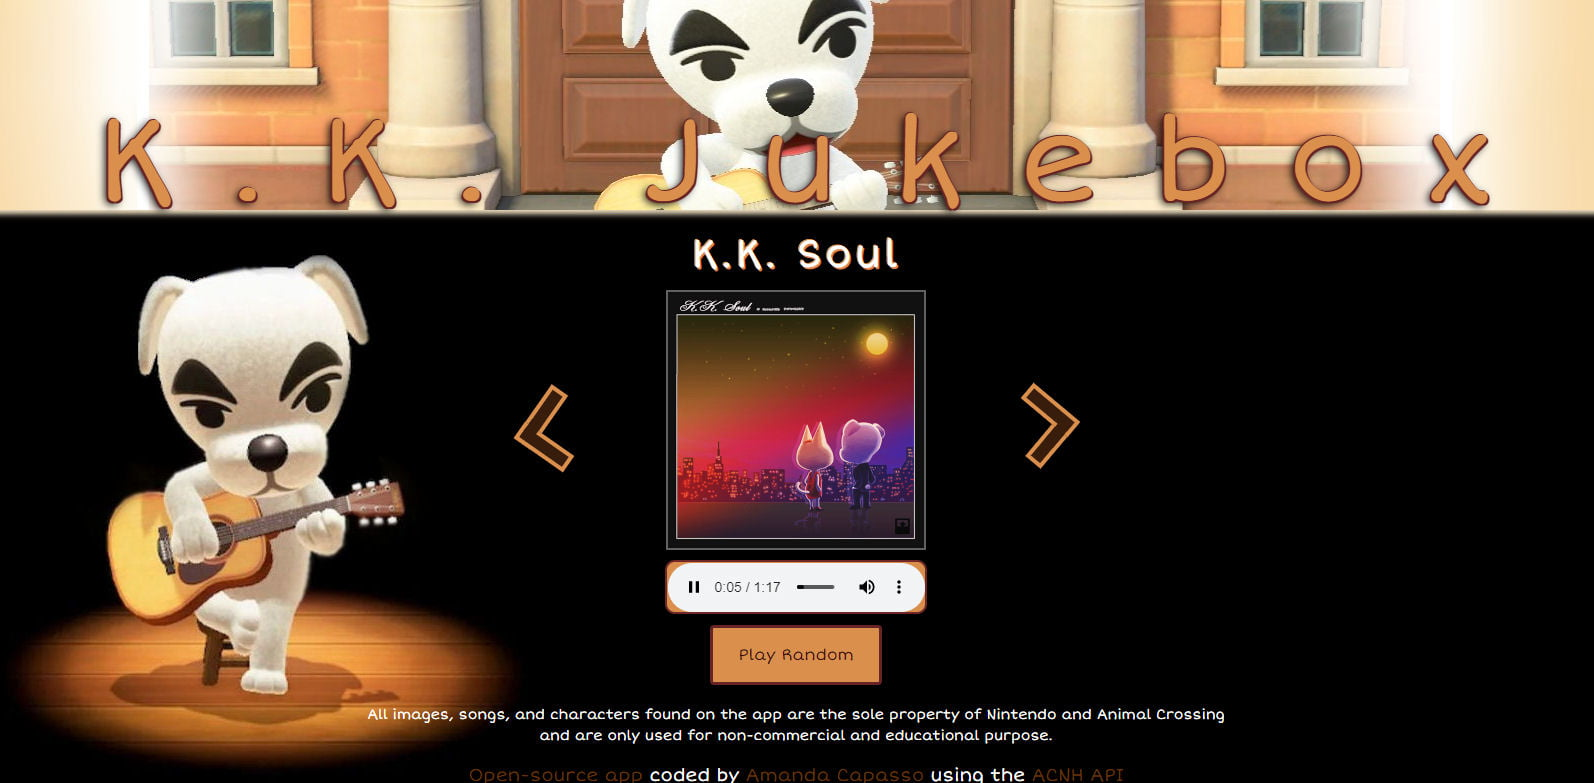
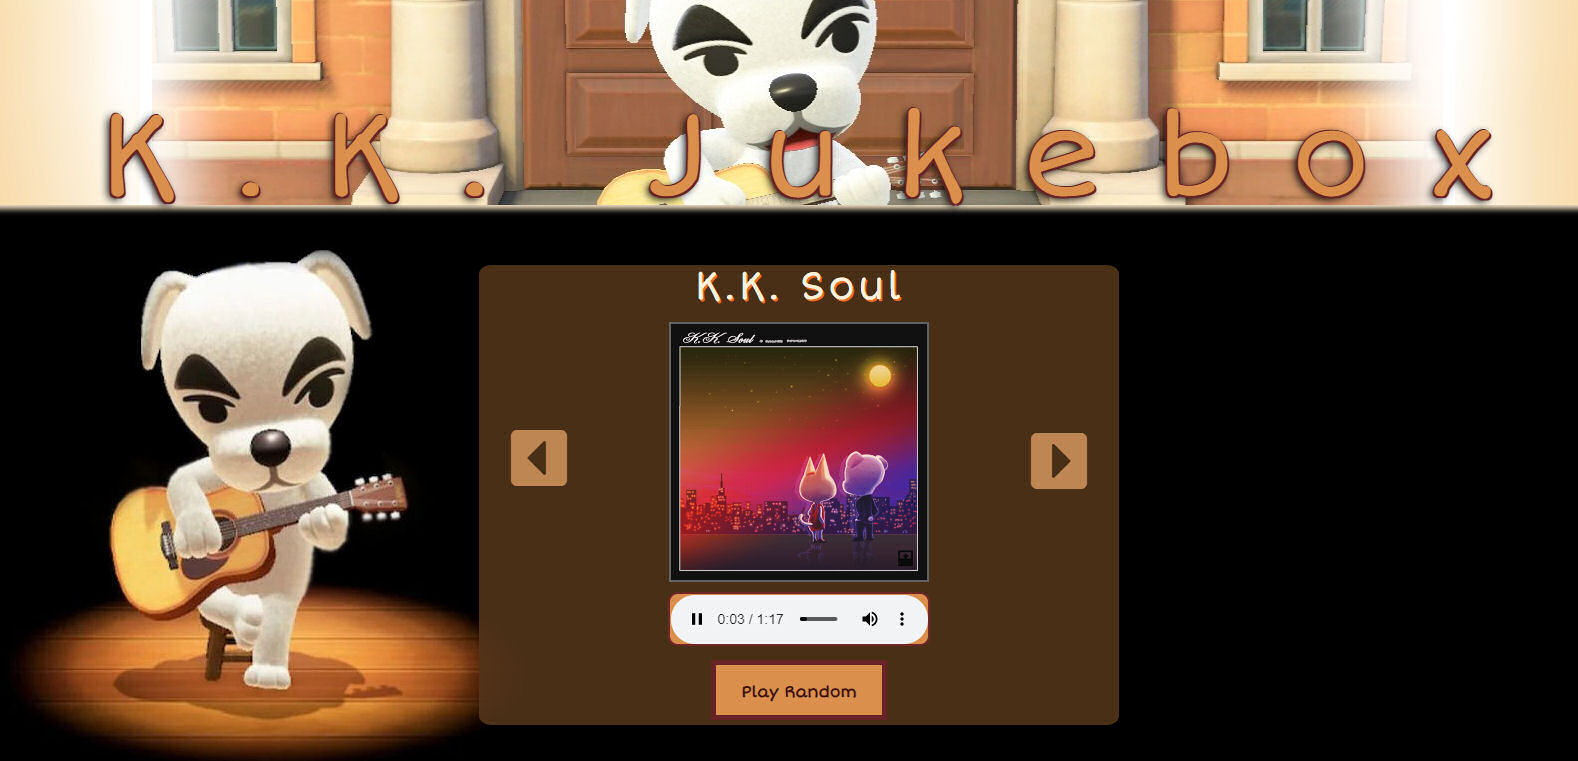
Began implementing pop-up with more info on carousel items starting with newhorizons
Began implementing pop-up with more info on carousel items starting with newhorizons. Added event listeners to buttons to open and close the pop-up with classlist changes. Added 3 preview images into pop-up and list with buttons to app link and github repository.

diff --git a/home.html b/home.html
@@ -53,6 +53,7 @@
             </div>
       </div>
     </div>
+  <div class="blackout"></div>
     <div class="header">
       <header>
       </header>
@@ -106,6 +107,25 @@
           <h1 class="headers" id="portfolioHeader">Portfolio</h1>
         <div class="projects">
 
+          <div class="hiddenInfo">
+            <ul>
+              <li><a href="https://kind-hoover-e218cf.netlify.app/" target="_blank"><button> View App </button></a>  </li>
+              <li><a href="https://github.com/acapasso90/newhorizonscritterpedia" target="_blank"> <button> GitHub <i class="fab fa-github-square"></i> </button></a></li>
+              <li class="builtWith"> Built with: </li>
+              <li> React <i class="fab fa-react" id="icon2" style="color: #3d90f0"></i> </li>
+            </ul>
+            <div class="column">
+              <button class="closeButton">Back</button>
+            <p>Animal Crossing New Horizon's Critterpedia built using React and the <a href="http://acnhapi.com/" target="_blank"> ACNH API</a>. By default it displays fish that are currently available in the Northern Hemisphere during the user's current month and hour.
+              Dropdowns are available to change the time and month and there are buttons for each hemisphere. Bugs and Deep Sea creatures can be accessed by clicking the respective icons 
+              on the top-left of the header, matching the game's UI. Each bug/fish/deep sea creature can be clicked to learn more information such as sell price, time frame and months available, and rarity. 
+            </p>
+            <div class="column">
+              <img src="media/newhorizons/tinypreview.jpg" class="previewPic" alt="animalcrossingPreview">  <img src="media/newhorizons/tinypreview2.jpg" id="previewPic2" class="previewPic" alt="animalcrossingPreview">  <img src="media/newhorizons/tinypreview3.jpg" id="previewPic3"  class="previewPic" alt="animalcrossingPreview">
+            </div>
+        </div>
+      </div>
+
           <div id="mycarousel" loading="lazy" class="carousel slide carousel-fade" data-ride="carousel" data-interval="3000">
             <ol class="carousel-indicators">
               <li data-target="#mycarousel" data-slide-to="0" class="active"></li>
@@ -120,7 +140,7 @@
                 <img src="media/newHorizons-min.jpg"  class="card-img-top" alt="newHorizonsApp">
                 <div class="carousel-caption d-md-block">
                   <div class="backdrop">
-                <a href="https://kind-hoover-e218cf.netlify.app/" 
+           <a href="https://kind-hoover-e218cf.netlify.app/" 
                 target="_blank" > <h3>New Horizon's Critterpedia</h3></a>
                 <h4>React
                 <a href="https://github.com/acapasso90/newhorizonscritterpedia" target="_blank" class="iconLink">

diff --git a/src/styles.css b/src/styles.css
@@ -64,6 +64,8 @@ label { font-size: 17pt!important;
     white-space: nowrap;
 user-select: none;}
 
+ul {list-style: none;}
+
     ::selection{background-color:#555D70;
         color: #ffff;}
 
@@ -148,6 +150,19 @@ animation: fadeIn 3s normal;
 animation-fill-mode: forwards;
 animation-delay: 2.7s;}
 
+.blackout {
+    display: none;
+}
+
+.blackoutShown {height: 507.4vh;
+    position: absolute;
+min-width: 100%;
+background-color: #eee;
+opacity: 50%;
+z-index: 0;}
+
+.builtWith {font-weight: bold;
+font-size: 15pt!important;}
 .headerShown {animation: appear 3s normal;
     animation-fill-mode: forwards;}
 
@@ -189,6 +204,9 @@ width: 60px;}
 .carousel-indicators {position: absolute;
 bottom: -12%;}
 
+
+.closeButton {position: absolute;
+right: 2%;}
 .container {min-width: 100%!important;
     max-width: 100%;
 padding: 0px!important;
@@ -399,6 +417,12 @@ margin-right: 5px;}
     margin-bottom: 80px;
 padding-right: 30px;}
 
+.shown p {position: relative;
+top: 10%;}
+
+.shown ul {margin-top: 2%;}
+.shown li, .shown p {font-size: 14pt;}
+
 #aboutHeader {margin-left: 75%;}
 
 #utilizingHeader {margin-left: 46%;}
@@ -484,6 +508,15 @@ text-decoration: none;
     max-width: 100%;
 bottom: 100px;}
 
+.previewPic {width: 31%;
+position: absolute;
+left: 10px;
+bottom: 10px;}
+
+#previewPic2 {left: 34.5%;}
+
+#previewPic3 {left: 68%}
+
 .projects {display: flex;
     max-width: 100%;
 justify-content: center;}
@@ -491,6 +524,17 @@ justify-content: center;}
 .row {display: flex;
     max-width: 100%;
 flex-direction: row;}
+
+.shown {display: inherit;
+position: absolute;
+width: 97%;
+height: 630px;
+background-color: #b87187;
+color: #161616;
+z-index: 9;
+top: 20%;}
+
+.hiddenInfo {display: none;}
 
 
 @media only screen and (max-width: 500px) {

diff --git a/src/app.js b/src/app.js
@@ -52,7 +52,7 @@ visual.addEventListener("mouseleave", e => {
 //Sets intervel for carousel to change slides
     var myCarousel = document.querySelector('#myCarousel')
     var carousel = new bootstrap.Carousel(myCarousel, {
-      interval: 6000,
+      interval: 500000000000000000000000,
       wrap: false
     })
 
@@ -89,3 +89,34 @@ observer = new IntersectionObserver(entries => {
   });
 //Observes all the headers
     headers.forEach(h1 => { observer.observe(h1)});
+
+
+// Adds display:none from hiddenInfo and removes shown class
+function closePopup(){
+    const hidden = document.querySelector('.shown');
+    const blackout = document.querySelector('.blackout');
+    hidden.classList.remove('shown');
+    hidden.classList.add('hiddenInfo');
+    blackout.classList.add('blackout');
+blackout.classList.remove('blackoutShown');
+    }
+
+// on click closePopup
+const exitButton = document.querySelector('.closeButton');
+exitButton.addEventListener("click", closePopup)
+
+// Removes display:none from hiddenInfo and adds shown class
+function showPopup(){
+const hidden = document.querySelector('.hiddenInfo');
+const blackout = document.querySelector('.blackout');
+const body2 = document.querySelector('body');
+hidden.classList.remove('hiddenInfo');
+hidden.classList.add('shown');
+blackout.classList.remove('blackout');
+blackout.classList.add('blackoutShown');
+body2.classList.add('noScroll');
+}
+
+// on click triggers showPopup function
+const popupLink = document.querySelector('.popupLink');
+popupLink.addEventListener("click", showPopup)
